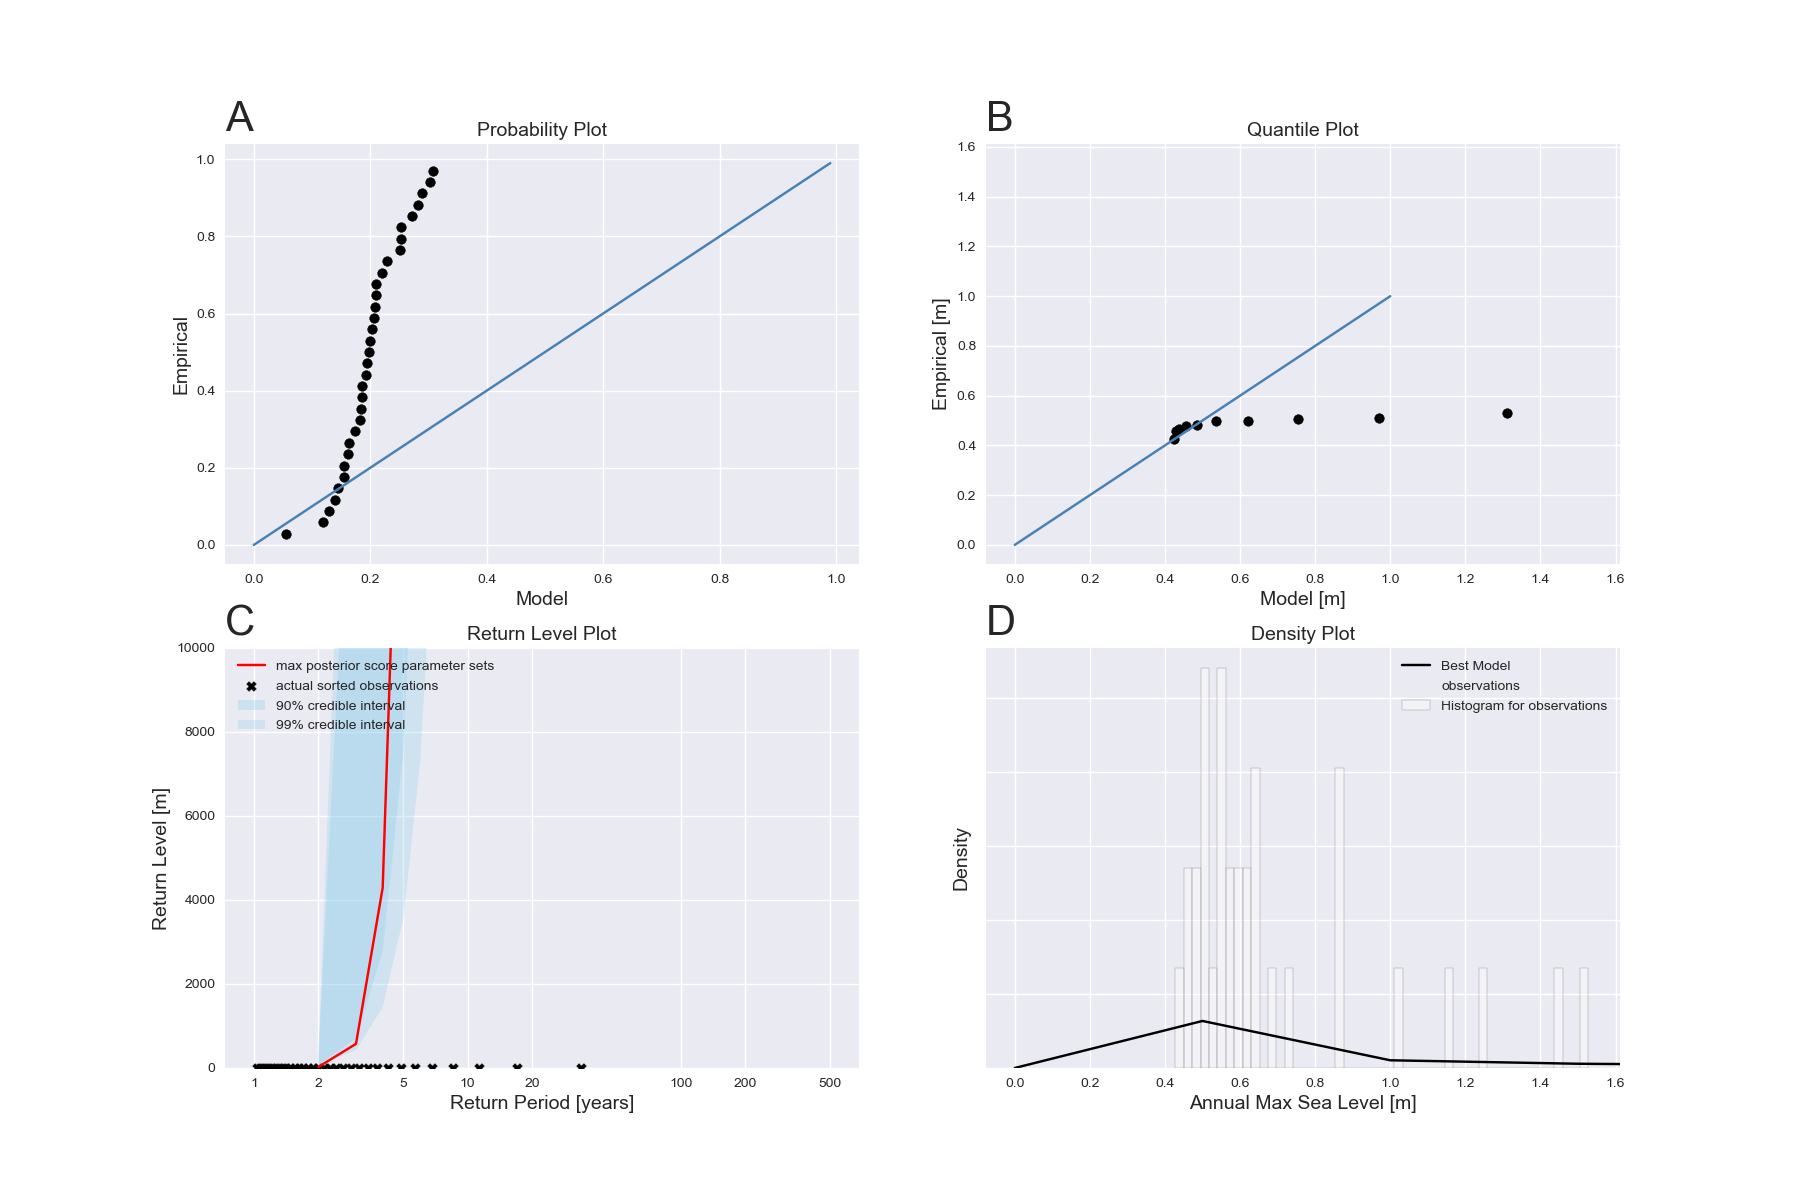
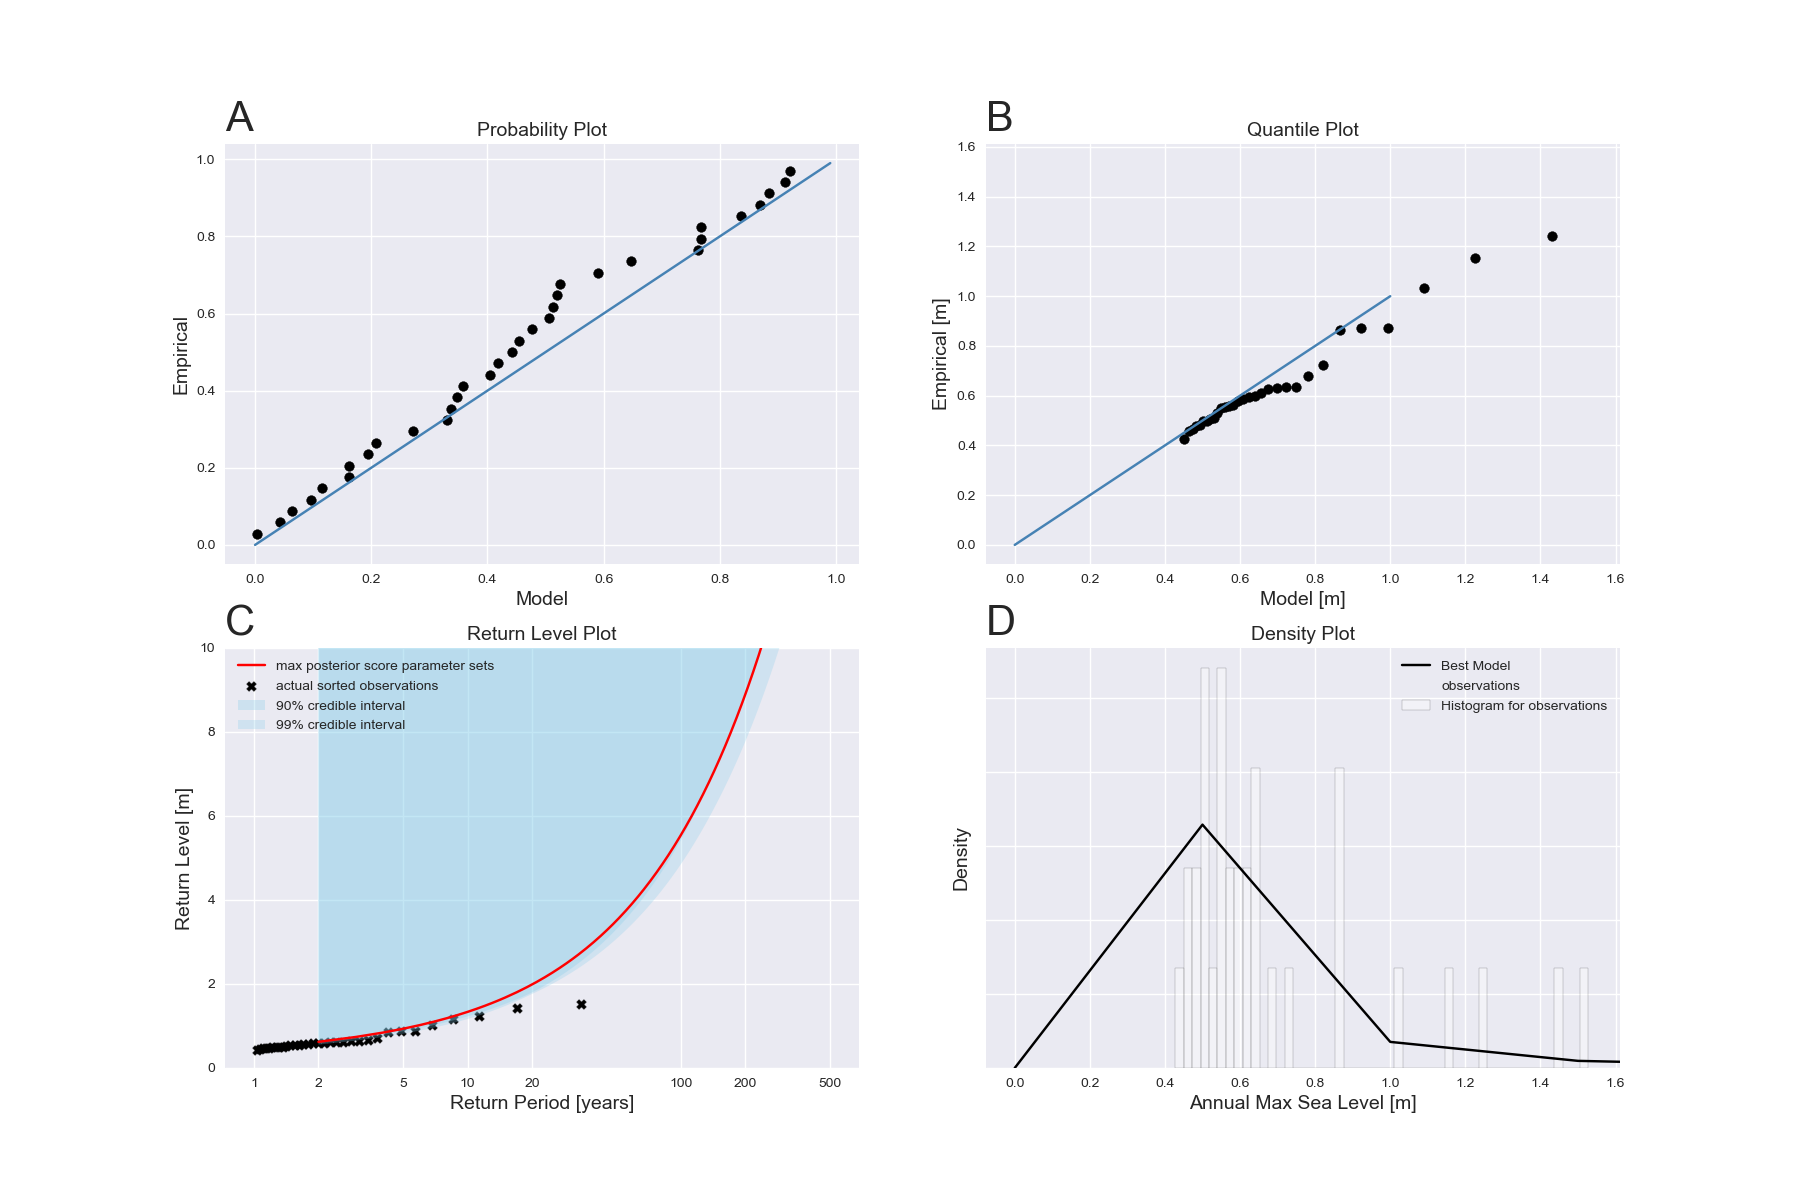
updates

diff --git a/sspipeline/utils.py b/sspipeline/utils.py
@@ -150,20 +150,20 @@ def read_and_clean(
 
     # plot the original dataset
     # FIXME: extremely slow when saving the figure!
-    # if plot:
-    #     timestamps = (
-    #         dfSL["day"].map(str)
-    #         + "/"
-    #         + dfSL["month"].map(str)
-    #         + "/"
-    #         + dfSL["year"].map(str)
-    #     )
-    #     fig, ax = plt.subplots(figsize=(12, 7))
-    #     ax.plot(timestamps, dfSL["sealevel"], color="#34495e")
-    #     ax.set_title("Original Sea Levels", fontsize=14)
-    #     ax.set_xlabel("Time [years]", fontsize=14)
-    #     ax.set_ylabel("Sea Level [m]", fontsize=14)
-    #     fig.savefig(output_dir + "/plots/original_data_set.png")
+    if plot:
+        timestamps = (
+            dfSL["day"].map(str)
+            + "/"
+            + dfSL["month"].map(str)
+            + "/"
+            + dfSL["year"].map(str)
+        )
+        fig, ax = plt.subplots(figsize=(12, 7))
+        ax.plot(timestamps, dfSL["sealevel"], color="#34495e")
+        ax.set_title("Original Sea Levels", fontsize=14)
+        ax.set_xlabel("Time [years]", fontsize=14)
+        ax.set_ylabel("Sea Level [m]", fontsize=14)
+        fig.savefig(output_dir + "plots/original_data_set.png")
 
     fill_in = dfSL.loc[dfSL["sealevel"] < -5, "sealevel"].mode()[0]
     logger = log(
@@ -198,7 +198,7 @@ def read_and_clean(
         ax.scatter(list(max_sl.keys()), list(max_sl.values()), color="#34495e")
         ax.set_xlabel("Time [years]", fontsize=14)
         ax.set_ylabel("Annual maximum sea level [m]", fontsize=14)
-        fig.savefig(output_dir + "/plots/cleaned_data.png")
+        fig.savefig(output_dir + "plots/cleaned_data.png")
 
     logger = log(
         logger,
@@ -218,7 +218,7 @@ def read_and_clean(
         )
         ax.set_xlabel("Annual Max Sea Level [m]", fontsize=14)
         ax.set_ylabel("Frequency", fontsize=14)
-        fig.savefig(output_dir + "/plots/annual_maximum.png")
+        fig.savefig(output_dir + "plots/annual_maximum.png")
 
     return data, logger
 

diff --git a/sspipeline/core.py b/sspipeline/core.py
@@ -216,7 +216,7 @@ def history_plots(mcmc_chains, params, true_params=None, output_dir="output"):
         ax[i].set_xlabel("Iteration", fontsize=14)
         ax[i].set_ylabel(params[i] + " Trace [m]", fontsize=14)
         ax[i].legend(loc="best")
-    fig.savefig(output_dir + "/plots/history_plots.png")
+    fig.savefig(output_dir + "plots/history_plots.png")
 
 
 def final_params_pool(
@@ -258,7 +258,7 @@ def final_params_pool(
         ax[2].set_ylabel("Frequency")
         ax[2].grid(alpha=0.5)
         # output the figure
-        fig.savefig(output_dir + "/plots/params_pool.png")
+        fig.savefig(output_dir + "plots/params_pool.png")
     return params_pool
 
 
@@ -447,8 +447,8 @@ def diagnostic_plots(
         ax[1, 0].set_title("Return Level Plot", fontsize=14)
         ax[1, 0].set_xlabel("Return Period [years]", fontsize=14)
         ax[1, 0].set_ylabel("Return Level [m]", fontsize=14)
-        if ax[1, 0].set_ylim()[1] > 10000:
-            ax[1, 0].set_ylim(0, 10000)
+        if ax[1, 0].set_ylim()[1] > 10:
+            ax[1, 0].set_ylim(0, 10)
         ax[1, 0].annotate(
             "C", xy=(0.0, 1.03), xycoords="axes fraction", fontsize=30
         )
@@ -481,7 +481,7 @@ def diagnostic_plots(
             "D", xy=(0.0, 1.03), xycoords="axes fraction", fontsize=30
         )
 
-        fig.savefig(output_dir + "/plots/diagnostic_plots.png")
+        fig.savefig(output_dir + "plots/diagnostic_plots.png")
 
     return percentile_05, percentile_1, percentile_2, percentile_5, percentile_95, percentile_98, percentile_99, percentile_995
 
@@ -489,7 +489,7 @@ def diagnostic_plots(
 def output_parameters(mcmc_chains, burnin, lags, output_dir="output"):
     for i in range(len(mcmc_chains[0])):
         with open(
-            output_dir + "/parameters/parameter-" + str(i + 1) + ".txt", "w"
+            output_dir + "parameters/parameter-" + str(i + 1) + ".txt", "w"
         ) as f:
             for j in range(len(mcmc_chains)):
                 if j == 0:

diff --git a/sspipeline/cli.py b/sspipeline/cli.py
@@ -179,7 +179,9 @@ def main(ctx, config):
             "99.5": percentile_995,
         }
     )
-    df = df.reindex([0, 3, 8, 48, 98, 498])
+    df = df.reindex([0, 3, 8, 18, 48, 98, 198, 498])
+    # print(df.index)
+    df.rename(index={0: 2, 3: 5, 8: 10, 18: 20, 48: 50, 98: 100, 198: 200, 498: 500}, inplace=True)
     df.to_csv(config_data["output_dir"] + "/return_levels.csv")
     # Output the parameters
     output_parameters(

diff --git a/sspipeline/acf.py b/sspipeline/acf.py
@@ -60,7 +60,7 @@ def acf_result(
     """
     lag_params, acf_params = [], []
     m, d, n = len(mcmc_chains), len(mcmc_chains[0]), len(mcmc_chains[0][0])
-    end = 10000
+    end = 1000
     for i in range(d):
         lag_params.append([])
         acf_params.append([])

diff --git a/sspipeline/README.md b/sspipeline/README.md
@@ -4,19 +4,19 @@
 
 # SSPipeline Source Code
 
-<details><summary><a href="__init__.py#L1">__init__.py</a></summary>
+<details><summary><a href="__init__.py#L1">__init__.py</a> (click to expand)</summary>
 
 This file is where Python goes whenever you want to run the pipeline. The pipeline wouldn't work without this!
 
 </details>
 
-<details><summary><a href="__version__.py#L1">__version__.py</a></summary>
+<details><summary><a href="__version__.py#L1">__version__.py</a> (click to expand)</summary>
 
 This file contains the version of the command line tool. Nothing too important!
 
 </details>
 
-<details><summary><a href="acf.py#L1">acf.py</a></summary>
+<details><summary><a href="acf.py#L1">acf.py</a> (click to expand)</summary>
 
 This file contains the following functions:
 
@@ -30,13 +30,13 @@ Obtains the lags for each parameter
 
 </details>
 
-<details><summary><a href="cli.py#L1">cli.py</a></summary>
+<details><summary><a href="cli.py#L1">cli.py</a> (click to expand)</summary>
 
 This file contains the function [`main`](cli.py#L62%23L170), which implements the pipeline's command line tool. It uses the [Click](http://click.pocoo.org/) Python package to do this.
 
 </details>
 
-<details><summary><a href="core.py#L1">core.py</a></summary>
+<details><summary><a href="core.py#L1">core.py</a> (click to expand)</summary>
 
 This file contains the following functions:
 
@@ -61,7 +61,7 @@ This file contains the following functions:
 - [`output_parameters`](core.py#L440%23L452)
   </details>
 
-<details><summary><a href="gelman_rubin.py#L1">gelman_rubin.py</a></summary>
+<details><summary><a href="gelman_rubin.py#L1">gelman_rubin.py</a> (click to expand)</summary>
 
 This file contains the following functions:
 
@@ -79,7 +79,7 @@ Obtains the maximum burnin for the chains
 
 </details>
 
-<details><summary><a href="gev_utils.py#L1">gev_utils.py</a></summary>
+<details><summary><a href="gev_utils.py#L1">gev_utils.py</a> (click to expand)</summary>
 
 This file contains the following functions:
 
@@ -97,7 +97,7 @@ In this function, we add the the log-prior and log-likelihood together to obtain
 
 </details>
 
-<details><summary><a href="utils.py#L1">utils.py</a></summary>
+<details><summary><a href="utils.py#L1">utils.py</a> (click to expand)</summary>
 
 This file contains the following functions:
 

diff --git a/README.md b/README.md
@@ -2,13 +2,11 @@
 <!-- markdownlint-disable MD022 -->
 <!-- markdownlint-disable MD040 -->
 
-# SSPipeline v0.1.dev0 [![CI Build Status](https://img.shields.io/travis/MUSSLES/sspipeline/master.svg?style=flat&colorA=0a0a0a)](https://travis-ci.org) [![Python 3.6](https://img.shields.io/badge/Python-3.6-0a0a0a.svg?style=flat&colorA=0a0a0a)](https://python.org) [![Code style: black](https://img.shields.io/badge/Code%20Style-black-0a0a0a.svg?style=flat&colorA=0a0a0a)](https://github.com/ambv/black)
+# SSPipeline v0.1.dev0 [![CI Build Status](https://img.shields.io/travis/MUSSLES/sspipeline/master.svg?style=flat&colorA=0a0a0a)](https://travis-ci.org/MUSSLES/sspipeline) [![Python 3.6](https://img.shields.io/badge/Python-3.6-0a0a0a.svg?style=flat&colorA=0a0a0a)](https://python.org) [![Code style: black](https://img.shields.io/badge/Code%20Style-black-0a0a0a.svg?style=flat&colorA=0a0a0a)](https://github.com/ambv/black)
 
-<!-- TODO: Enter in! -->
+**Latest Update:** Submitted our manuscript to ArXiv.
 
-**Latest Update:**
-
-<details><summary>Table of Contents</summary>
+<details><summary>Table of Contents (click to expand)</summary>
 
 - [Motivation](#motivation)
   - [Important Notes](#important-notes)
